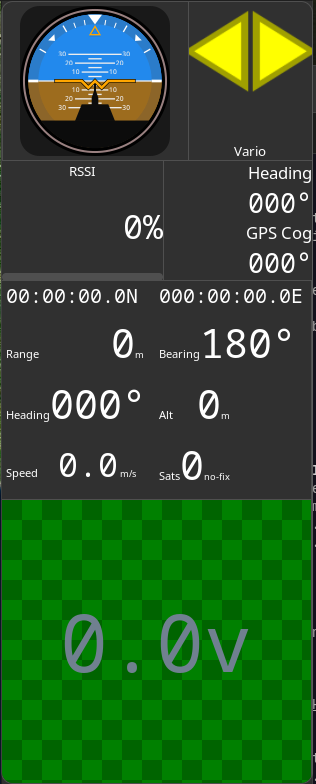
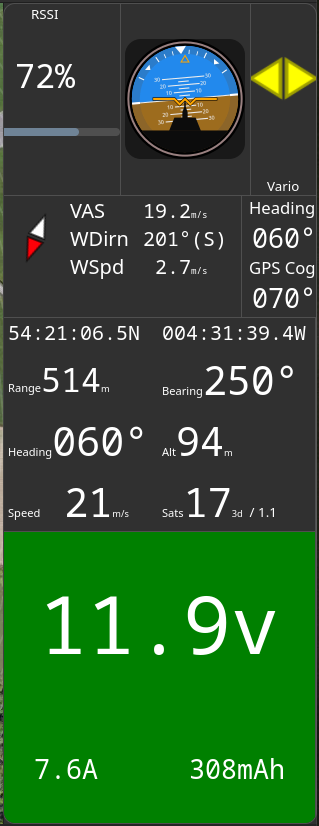
document wind estimator

diff --git a/docs/manual/docs/dock.md b/docs/manual/docs/dock.md
@@ -38,6 +38,10 @@ The following items are provided.
 ![dockdir](images/dock_vario_l.png){: width="25%" }
 ![dockdir](images/dock_vario_d.png){: width="25%" }
 
+### Wind Estimator (new / Gtk4)
+
+![dockwind](images/panel-vas.png){: width="25%" }
+
 ## Side Bar Configuration
 
 
@@ -70,16 +74,18 @@ The available panel widgets are named as:
 | `flight` | "Flight View" Position / Velocity / Satellites etc, |
 | `volts` | Battery information |
 | `vario` | Vario indicator |
+|  `wind` | Wind Estimator (BBL replay only) |
 
 No other legacy widgets have been migrated.
 
 So using the following `~/.config/mwp/panel.conf`
 
 ```
-# default + vario widgets
-ahi,0,1,100
+# default + vario + wind widgets
+ahi, 0, 1, 100
 vario,0,2
-rssi, 1, 0
+rssi, 0, 0
+wind, 1, 0
 dirn, 1, 1
 flight, 2, 0
 volts, 3, 0

diff --git a/docs/manual/docs/mwp-macos.md b/docs/manual/docs/mwp-macos.md
@@ -92,7 +92,7 @@ ninja -C _build install
 
 ## Other notes
 
-macOS appears not measure text width in the same was a other OS. A "fudge factor" is included that works on my "Ventura" VM. The user set there own value with the environment variable `MWP_MAC_FACTOR', set to a value greater than 100. Try with values around 125.
+macOS appears not measure text width in the same was a other OS. A "fudge factor" is included that works on my MacOS VMs. The user set there own value with the environment variable `MWP_MAC_FACTOR', set to a value greater than 100. Try with values around 125.
 
 e.g.
 ```

diff --git a/docs/manual/docs/mwp-Gtk4-migration-guide.md b/docs/manual/docs/mwp-Gtk4-migration-guide.md
@@ -119,16 +119,18 @@ The available panel widgets are named as:
 | `flight` | "Flight View" Position / Velocity / Satellites etc, |
 | `volts` | Battery information |
 | `vario` | Vario indicator |
+| `wind` | Wind Estimator (BBL replay only) |
 
 No other legacy widgets have been migrated.
 
 So using the following `~/.config/mwp/panel.conf`
 
 ```
-# default + vario widgets
-ahi,0,1,100
+# default + vario + wind widgets
+ahi, 0, 1, 100
 vario,0,2
-rssi, 1, 0
+rssi, 0, 0
+wind, 1, 0
 dirn, 1, 1
 flight, 2, 0
 volts, 3, 0
